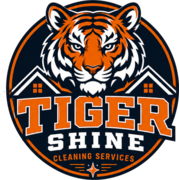
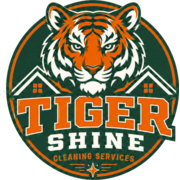
Live palette: hunter green + tan + orange

diff --git a/index.html b/index.html
@@ -13,13 +13,14 @@
 <style>
 :root{
   /* sampled directly from the logo */
-  --ink:#041322;
+  --ink:#1B4433;
+  --green-mid:#27604A;
   --orange:#ED6101;
   --orange-deep:#C44E01;
-  --cream:#FFEDDC;
-  --paper:#FAF8F6;
-  --muted:#5A6472;
-  --rule:rgba(4,19,34,.11);
+  --cream:#EFE7D6;
+  --paper:#F8F4EA;
+  --muted:#5F6459;
+  --rule:rgba(27,68,51,.15);
   --wrap:1180px;
   --display:'Archivo',system-ui,sans-serif;
   --body:'Inter',system-ui,sans-serif;
@@ -66,13 +67,13 @@ h3{font-weight:800;font-size:1.3rem}
 .hero-meta{margin-top:1.5rem;font-size:.82rem;color:var(--muted);letter-spacing:.02em}
 
 /* ---------- signature: before/after slider ---------- */
-.ba{position:relative;border-radius:6px;overflow:hidden;background:var(--paper);user-select:none;box-shadow:0 18px 44px rgba(4,19,34,.16)}
+.ba{position:relative;border-radius:6px;overflow:hidden;background:var(--paper);user-select:none;box-shadow:0 18px 44px rgba(27,68,51,.16)}
 .ba>img{width:100%;height:auto}
 .ba-before{position:absolute;inset:0;width:100%;height:100%;object-fit:cover;clip-path:inset(0 calc(100% - var(--pos,50%)) 0 0)}
 .ba-line{position:absolute;top:0;bottom:0;left:var(--pos,50%);width:2px;background:var(--orange);transform:translateX(-1px);pointer-events:none}
-.ba-grip{position:absolute;top:50%;left:50%;transform:translate(-50%,-50%);width:44px;height:44px;border-radius:50%;background:var(--orange);display:grid;place-items:center;box-shadow:0 3px 14px rgba(4,19,34,.4)}
+.ba-grip{position:absolute;top:50%;left:50%;transform:translate(-50%,-50%);width:44px;height:44px;border-radius:50%;background:var(--orange);display:grid;place-items:center;box-shadow:0 3px 14px rgba(27,68,51,.4)}
 .ba-grip svg{width:21px;height:21px;fill:#fff}
-.ba-tag{position:absolute;bottom:13px;font-family:var(--display);font-weight:800;font-size:.66rem;letter-spacing:.15em;text-transform:uppercase;color:#fff;background:rgba(4,19,34,.74);padding:.32rem .6rem;border-radius:3px;pointer-events:none;backdrop-filter:blur(4px)}
+.ba-tag{position:absolute;bottom:13px;font-family:var(--display);font-weight:800;font-size:.66rem;letter-spacing:.15em;text-transform:uppercase;color:#fff;background:rgba(27,68,51,.74);padding:.32rem .6rem;border-radius:3px;pointer-events:none;backdrop-filter:blur(4px)}
 .ba-tag-l{left:13px}
 .ba-tag-r{right:13px}
 .ba-range{position:absolute;inset:0;width:100%;height:100%;margin:0;opacity:0;cursor:ew-resize;appearance:none;background:none}
@@ -87,7 +88,7 @@ h1 em,h2 em{font-style:normal;color:var(--orange)}
 .sec-head h2::after{content:"";display:block;width:54px;height:4px;background:var(--orange);margin-top:1.05rem;border-radius:2px}
 
 /* ---------- trust band: light, orange only as tiny marks ---------- */
-.band{background:var(--ink);padding:1.15rem 0}
+.band{background:var(--green-mid);padding:1.15rem 0}
 .band-in{display:flex;flex-wrap:wrap;gap:.7rem 2.4rem;justify-content:center;align-items:center;font-family:var(--display);font-weight:700;font-size:.78rem;letter-spacing:.11em;text-transform:uppercase;color:#fff}
 .band-in span{display:inline-flex;align-items:center;gap:.55rem}
 .dot{width:6px;height:6px;border-radius:50%;background:var(--orange);flex:none}
@@ -97,19 +98,19 @@ h1 em,h2 em{font-style:normal;color:var(--orange)}
 @media(max-width:900px){.svc{grid-template-columns:1fr}}
 .card{position:relative;border-radius:6px;overflow:hidden;min-height:400px;display:flex;flex-direction:column;justify-content:flex-end;padding:1.65rem;color:#fff;isolation:isolate}
 .card img{position:absolute;inset:0;width:100%;height:100%;object-fit:cover;z-index:-2;transition:transform .6s cubic-bezier(.2,.7,.3,1)}
-.card::after{content:"";position:absolute;inset:0;z-index:-1;background:linear-gradient(180deg,rgba(4,19,34,.05) 28%,rgba(4,19,34,.88) 100%)}
+.card::after{content:"";position:absolute;inset:0;z-index:-1;background:linear-gradient(180deg,rgba(27,68,51,.05) 28%,rgba(27,68,51,.88) 100%)}
 .card:hover img{transform:scale(1.05)}
 .card h3{margin-bottom:.45rem}
 .card p{margin:0;font-size:.93rem;color:rgba(255,255,255,.82)}
 .card-num{position:absolute;top:1.35rem;left:1.65rem;font-family:var(--display);font-weight:800;font-size:.66rem;letter-spacing:.14em;color:#fff;background:var(--orange);padding:.34rem .7rem;border-radius:3px}
 /* windows: no photo yet, so a light bordered panel instead of a grey placeholder */
-.card-flat{background:#fff;border:1px solid rgba(237,97,1,.35);color:var(--ink);justify-content:flex-end}
+.card-flat{background:#fff;border:1px solid rgba(39,96,74,.3);color:var(--ink);justify-content:flex-end}
 .card-flat::after{display:none}
 .card-flat p{color:var(--muted)}
 .card-flat .rule{width:36px;height:3px;background:var(--orange);margin-bottom:1rem}
 
 .tint{background:var(--cream)}
-.work{background:#fff}
+.work{background:var(--paper)}
 .pairs{display:grid;grid-template-columns:1fr 1fr;gap:1.5rem}
 @media(max-width:900px){.pairs{grid-template-columns:1fr}}
 
@@ -118,22 +119,22 @@ h1 em,h2 em{font-style:normal;color:var(--orange)}
 .lights h2{color:#fff}
 .lights .lede{color:rgba(255,255,255,.68)}
 .grid-lights{display:grid;grid-template-columns:repeat(4,1fr);gap:.9rem;margin-top:2.4rem}
-.grid-lights figure{margin:0;border-radius:5px;overflow:hidden;aspect-ratio:4/3;background:#0a1c2e}
+.grid-lights figure{margin:0;border-radius:5px;overflow:hidden;aspect-ratio:4/3;background:#16382A}
 .grid-lights img{width:100%;height:100%;object-fit:cover;transition:transform .6s cubic-bezier(.2,.7,.3,1)}
 .grid-lights figure:hover img{transform:scale(1.06)}
 .grid-lights .tall{grid-column:span 2;grid-row:span 2;aspect-ratio:auto}
 @media(max-width:900px){.grid-lights{grid-template-columns:repeat(2,1fr)}.grid-lights .tall{grid-column:span 2;grid-row:auto;aspect-ratio:4/3}}
 
 /* ---------- contact ---------- */
-.contact{text-align:center;background:var(--orange);color:#fff}
+.contact{text-align:center;background:var(--green-mid);color:#fff}
 .contact h2{color:#fff}
-.contact h2::after{background:var(--ink)}
-.contact h2 em{color:var(--ink)}
+.contact h2::after{background:var(--orange)}
+.contact h2 em{color:var(--orange)}
 .contact .eyebrow{color:rgba(255,255,255,.8)}
 .contact .lede{color:rgba(255,255,255,.9)}
 .contact .lede{margin:.9rem auto 0}
-.phone{display:inline-block;font-family:var(--display);font-weight:900;font-size:clamp(1.9rem,5.2vw,3.2rem);letter-spacing:-.03em;color:#fff;text-decoration:none;margin:1.6rem 0 .25rem}
-.phone:hover{color:var(--ink)}
+.phone{display:inline-block;font-family:var(--display);font-weight:900;font-size:clamp(1.9rem,5.2vw,3.2rem);letter-spacing:-.03em;color:var(--orange);text-decoration:none;margin:1.6rem 0 .25rem}
+.phone:hover{color:#fff}
 .contact-note{font-size:.85rem;color:rgba(255,255,255,.78)}
 
 footer{background:var(--ink);border-top:4px solid var(--orange);color:rgba(255,255,255,.55);padding:2.4rem 0;font-size:.84rem}
@@ -161,7 +162,7 @@ body.season-winter .winter-only{display:block}
 <header class="nav">
   <div class="wrap nav-in">
     <a class="brand" href="#top">
-      <img src="img/logo-sm.png" alt="Tigershine">
+      <img src="img/logo-brand.png" alt="Tigershine">
       <span class="brand-txt">Tigershine<span class="brand-sub">Auburn &amp; Opelika, AL</span></span>
     </a>
     <nav class="nav-links">
@@ -211,7 +212,7 @@ body.season-winter .winter-only{display:block}
         <p class="ba-cap">Same sidewalk, same afternoon. Drag the slider.</p>
       </div>
       <div class="winter-only">
-        <img src="img/lights-hero.jpg" alt="A large white brick home at dusk with warm white roofline lights and lit wreaths in every window" style="border-radius:6px;box-shadow:0 18px 44px rgba(4,19,34,.16)">
+        <img src="img/lights-hero.jpg" alt="A large white brick home at dusk with warm white roofline lights and lit wreaths in every window" style="border-radius:6px;box-shadow:0 18px 44px rgba(27,68,51,.16)">
         <p class="ba-cap">Roofline, gables, and wreaths — installed by Tigershine.</p>
       </div>
     </div>
@@ -331,7 +332,7 @@ body.season-winter .winter-only{display:block}
 
 <footer>
   <div class="wrap foot-in">
-    <span class="foot-brand"><img src="img/logo-sm.png" alt="">© <span id="yr">2026</span> Tigershine · Auburn &amp; Opelika, AL</span>
+    <span class="foot-brand"><img src="img/logo-brand.png" alt="">© <span id="yr">2026</span> Tigershine · Auburn &amp; Opelika, AL</span>
     <span><a href="tel:3343156784">334-315-6784</a></span>
   </div>
 </footer>
